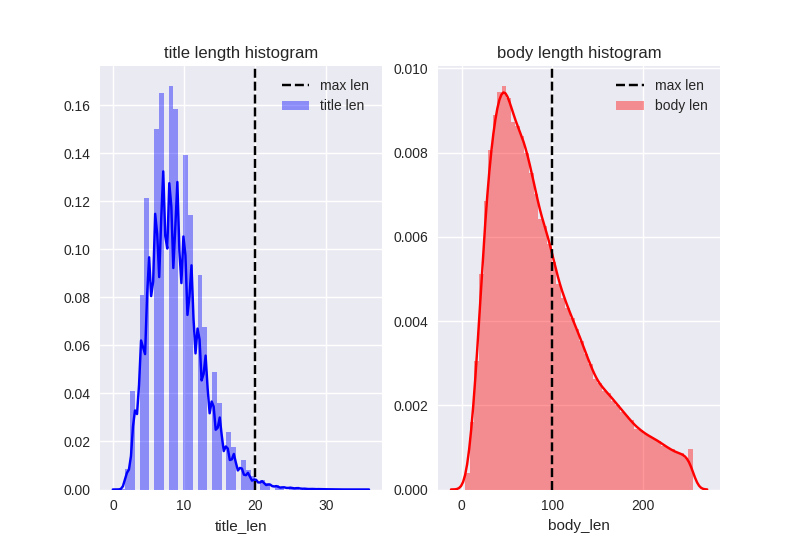
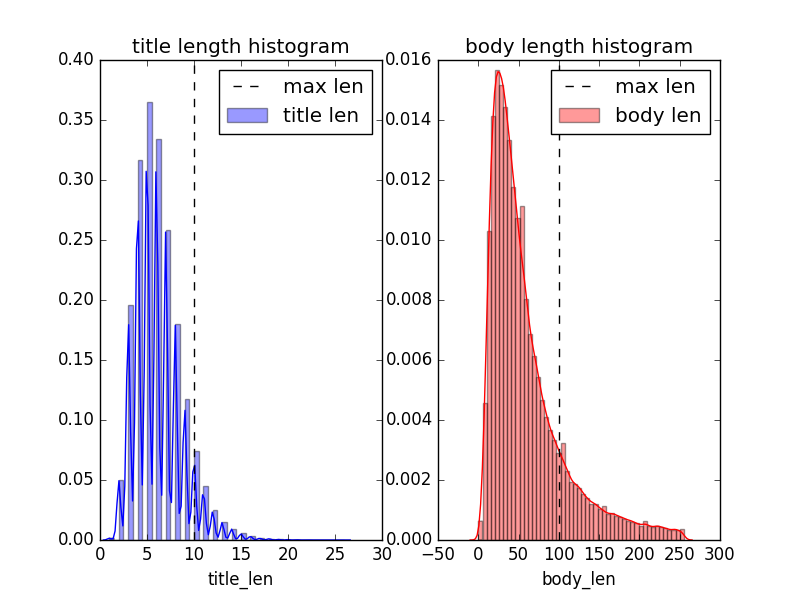
updated title_len, added set for stopwords

diff --git a/src/lstm_baseline.py b/src/lstm_baseline.py
@@ -13,9 +13,11 @@ from torch.autograd import Variable
 
 from tqdm import tqdm
 from time import time
+import cPickle as pickle
+from nltk.corpus import stopwords
 from nltk.tokenize import RegexpTokenizer
 from sklearn.feature_extraction.text import TfidfVectorizer
-from sklearn.metrics.pairwise import cosine_similarity
+from sklearn.metrics.pairwise import cosine_similarity #use torch.nn.CosineSimilarity
 
 np.random.seed(0)
 #torch.manual_seed(0)
@@ -24,10 +26,11 @@ DATA_PATH = '/data/vision/fisher/data1/vsmolyakov/nlp_project/data/askubuntu/'
 
 SAVE_PATH = './lstm_baseline.pt' 
 EMBEDDINGS_FILE = DATA_PATH + '/vector/vectors_pruned.200.txt'
-MAX_TITLE_LEN = 20
+MAX_TITLE_LEN = 10
 MAX_BODY_LEN = 100  #max number of words per sentence
 
 tokenizer = RegexpTokenizer(r'\w+')
+stop = set(stopwords.words('english'))
 
 def get_embeddings():
     lines = []
@@ -65,6 +68,8 @@ train_text_file = DATA_PATH + '/text_tokenized.txt'
 train_text_df = pd.read_table(train_text_file, sep='\t', header=None)
 train_text_df.columns = ['id', 'title', 'body']
 train_text_df = train_text_df.dropna()
+train_text_df['title'] = train_text_df['title'].apply(lambda words: ' '.join(filter(lambda x: x not in stop, words.split())))
+train_text_df['body'] = train_text_df['body'].apply(lambda words: ' '.join(filter(lambda x: x not in stop, words.split())))
 train_text_df['title_len'] = train_text_df['title'].apply(lambda words: len(tokenizer.tokenize(str(words))))
 train_text_df['body_len'] = train_text_df['body'].apply(lambda words: len(tokenizer.tokenize(str(words))))
 
@@ -94,7 +99,7 @@ ax1.axvline(x=MAX_TITLE_LEN, color='k', linestyle='--', label='max len')
 ax2.axvline(x=MAX_BODY_LEN, color='k', linestyle='--', label='max len')
 ax1.set_title('title length histogram'); ax1.legend(loc=1); 
 ax2.set_title('body length histogram'); ax2.legend(loc=1);
-plt.savefig('./figures/question_len_hist.png')
+plt.savefig('../figures/question_len_hist.png')
 
 """
 print "fitting tf-idf vectorizer..."
@@ -107,6 +112,8 @@ print "elapsed time: %.2f sec" %(toc - tic)
 vocab = tfidf.vocabulary_
 print "vocab size: ", len(vocab)
 print "embeddings size: ", embeddings.shape
+"""
+
 """
 
 print "generating training, validation, test datasets..."
@@ -264,6 +271,8 @@ for epoch in range(num_epochs):
     
     torch.save(model, SAVE_PATH)
 #end for
+
+"""
 
 """
 #generate plots

diff --git a/src/extract_data.py b/src/extract_data.py
@@ -43,7 +43,7 @@ def get_embeddings():
 ###################################################################
 #load data
 print "loading data..."
-stop = stopwords.words('english')
+stop = set(stopwords.words('english')) #faster membership checking with a set
 tic = time()
 train_text_file = DATA_PATH + 'texts_raw_fixed.txt'
 train_text_df = pd.read_table(train_text_file, sep='\t', header=None)

diff --git a/README.md b/README.md
@@ -1,9 +1,6 @@
 # 6.864_term_project
 Term project for 6.864 - Advanced NLP
 
-# Dependencies   
-PyTorch   
-
 # Installation
 Once you've downloaded the repository, you will need to create a config.ini in the /src folder.
 This file will contain all parameters that will be picked up at run-time. These include paths to your data folder etc.
@@ -21,7 +18,7 @@ extracted_data_file_name = data_raw.dat
 train_test_file_name = data_train_test.dat
 
 [data_params]
-MAX_TITLE_LEN = 20
+MAX_TITLE_LEN = 10
 MAX_BODY_LEN = 100
 TRAIN_SAMPLE_SIZE = -1
 # -1 if you want to run it on the entire data set extracted in extracted_data_file_name. Use any other small number like 10/100 to prepare a train-set of 10/100 data points and test your workflow.
@@ -32,3 +29,6 @@ TRAIN_SAMPLE_SIZE = -1
 [cnn_params]
 # add your CNN params here
 ```
+
+# Dependencies   
+PyTorch 0.2.0_3   
